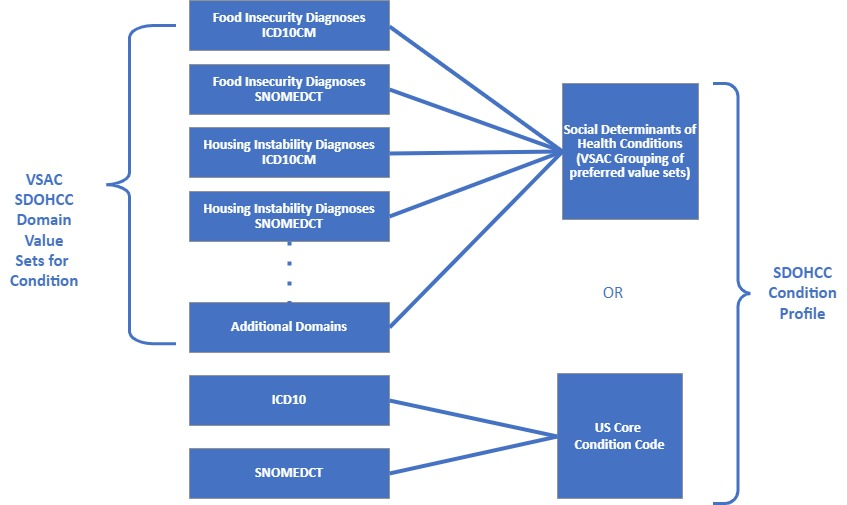
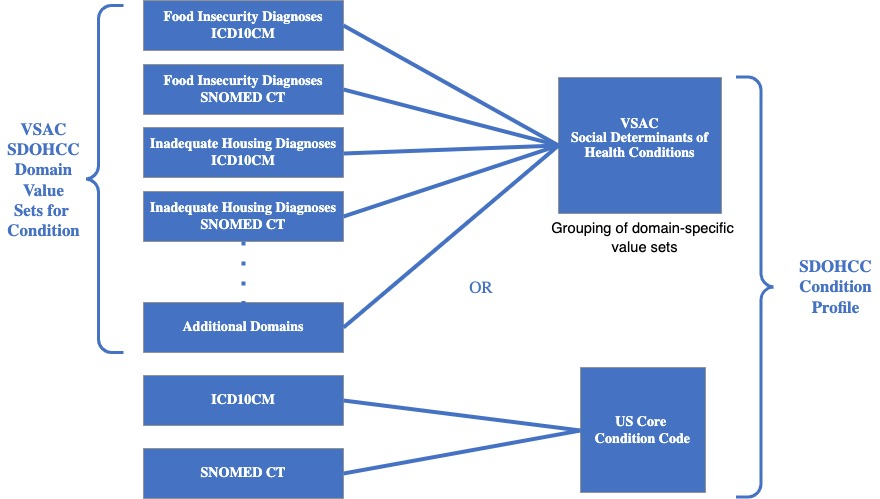
updated VSAC Terminology figure and text

Changed region(s): [[0.0, 0.0, 1.0, 1.0], [0.706, 0.5711, 0.7367, 0.6012]]

diff --git a/input/pagecontent/gravity_terminology.md b/input/pagecontent/gravity_terminology.md
@@ -1,0 +1,10 @@
+### Gravity Terminology Development
+The [Gravity Confluence Terminology Workstream](https://confluence.hl7.org/display/GRAV/Terminology+Workstream+Dashboard) has developed domain-specific value sets supporting the use of the profiles defined in this IG for SDOH data.  The value sets are maintained in the [NIH Value Set Authority Center (VSAC)](https://vsac.nlm.nih.gov/) database, and are referenced in each profile where there use is mandated.
+
+### Gravity Value Set Structure
+The Figure below illustrates how the SDOH group value set is structured for the [SDOHCC Condition] Profile and reflects the general approach to the Gravity-developed value sets.
+The [Social Determinants of Health Conditions Value Set](https://vsac.nlm.nih.gov/valueset/2.16.840.1.113762.1.4.1196.788/expansion) in VSAC aggregates or groups value sets for all of the supported SDOH domains.
+
+ **Example of VSAC SDOH Group Value Set for Condition.Code**
+
+<table><tr><td><img src="VSACValueSet.jpg" /></td></tr></table>
